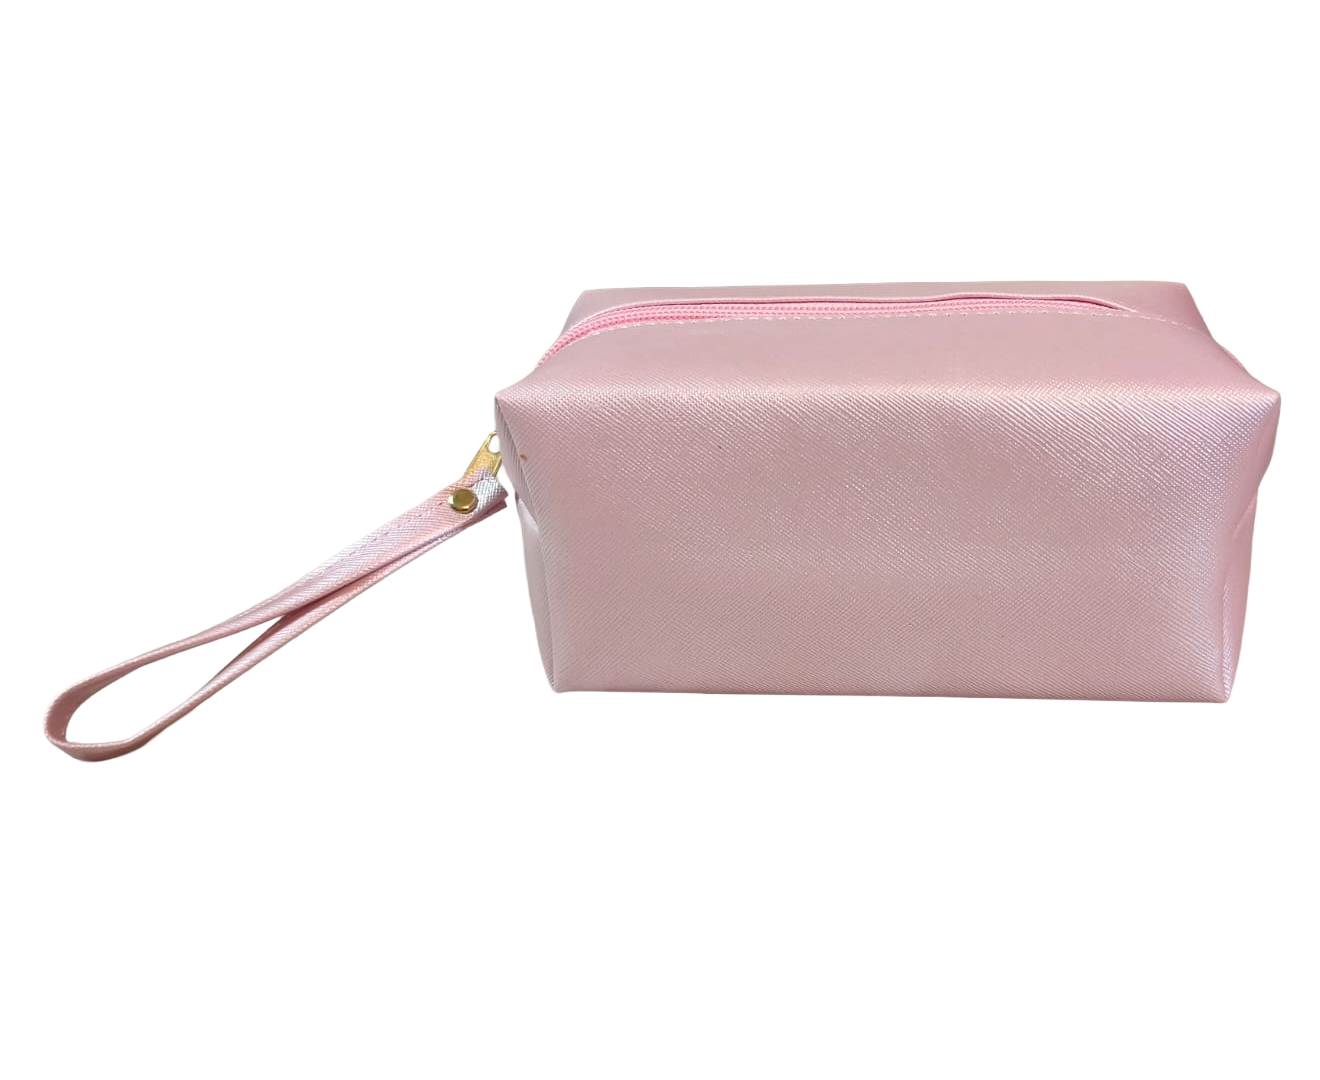
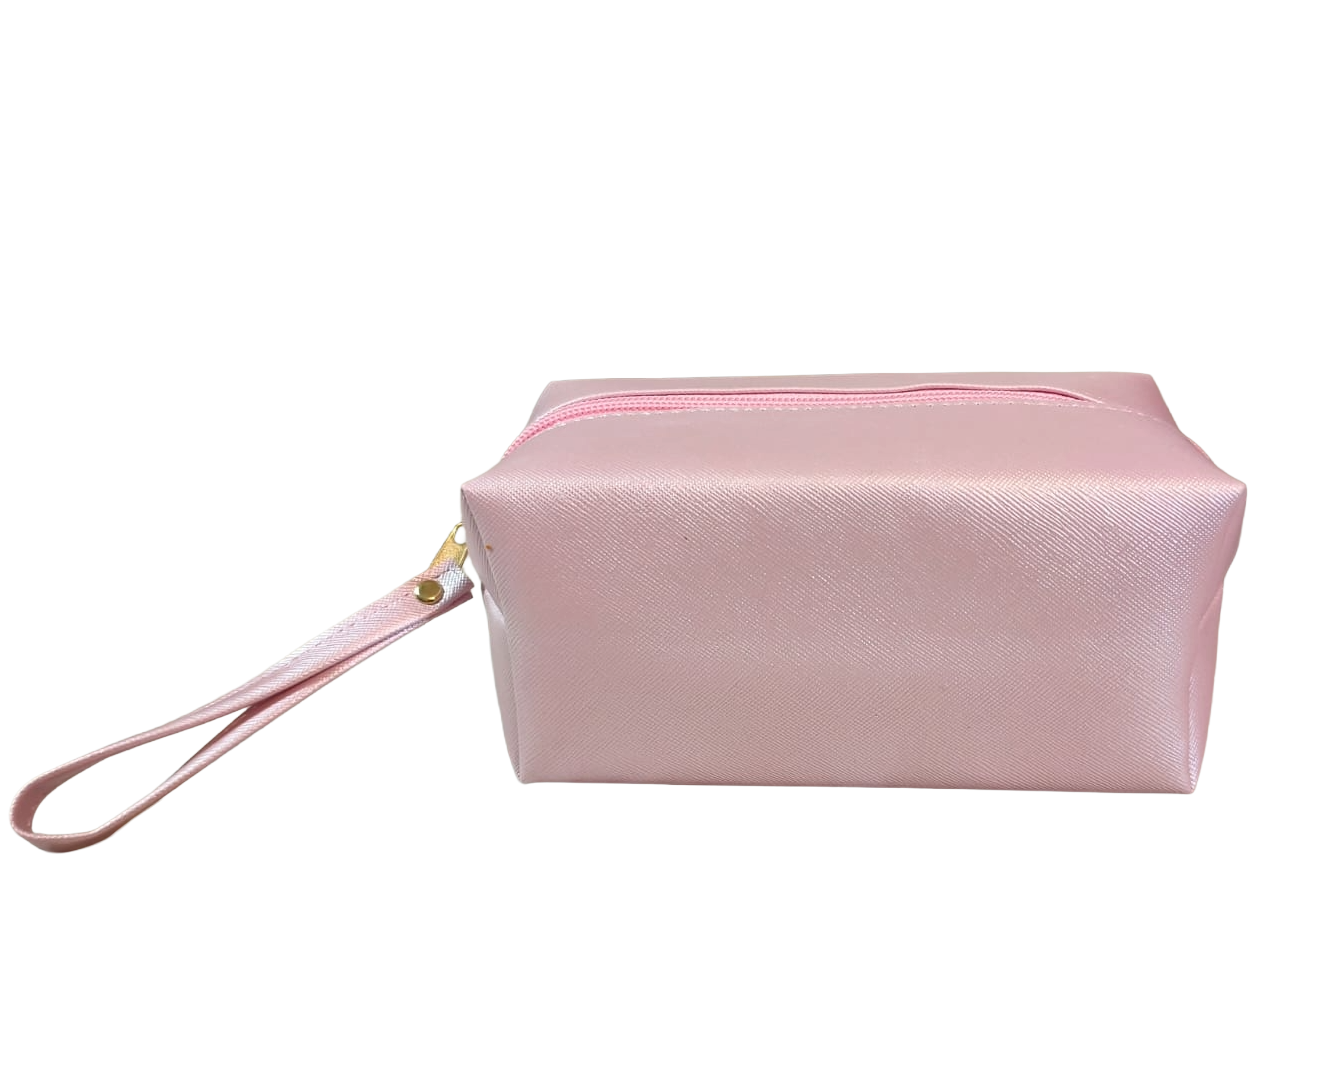
galeria y bugsd

Changed region(s): [[0.0, 0.2444, 0.9939, 0.7944], [0.0932, 0.7333, 0.1242, 0.7639]]

diff --git a/src/components/ProductsSection.tsx b/src/components/ProductsSection.tsx
@@ -4,13 +4,47 @@ import barcoDoradoFrente from "../assets/barco_dorada_frente.png";
 import barcoDoradoLateral from "../assets/barco-dorado-lateral.png";
 import barcoDoradoSuperior from "../assets/barco-dorada-superior.png";
 
+import barcoRosaPinkFrente from "../assets/barco-rosa-pink-frente.png";
+import barcoRosaPinkLateral from "../assets/barco-rosa-pink-lateral.png";
+import barcoRosaPinkSuperior from "../assets/barco-rosa-pink-superior.png";
+
+import barcoVerdeMentaeFrente from "../assets/barco-verde-menta-frente.png";
+import barcoVerdeMentaLatera from "../assets/barco-verde-mente-lateral.png";
+import barcoVerdeMentaSuperior from "../assets/barco-verde-mente-superior.png";
+
+import barcoLilaOrquideaFrente from "../assets/barco-lila-orquidea-frente.png";
+import barcoLilaOrquideaLateral from "../assets/barco-laila-orquide-lateral.png";
+import barcoLilaOrquideaSuperior from "../assets/barco-lila-orquidea-superior.png";
+
 import redondaLilaOrquidia from "../assets/lila-orquidia.png";
 import redondaLilaOrquidiaLateral from "../assets/lila-orquidia-lateral.png";
 import redondaLilaOrquidiaSuperior from "../assets/lila-orquidia-superior.png";
 
+import redondaVerdeManzanaFrente from "../assets/redonda-verde-manzana-frente.png";
+import redondaVerdeManzanaLateral from "../assets/redonda-verde-manzana-lateral.png";
+import redondaVerdeManzanaSuperior from "../assets/redonda-verde-manzana-superior.png";
+
+import redondaAmarillaFrente from "../assets/redonda-amarilla-frente.png";
+import redondaAmarillaLateral from "../assets/redonda-amarilla-lateral.png";
+
 import cuadradaRosaFrente from "../assets/cuadrada-rosa-aperlado.png";
 import cuadradaRosaLateral from "../assets/cuadrada-rosa-lateral.png";
 import cuadradaRosaSuperior from "../assets/cuadrada-rosa-superior.png";
+
+import cuadradaGrisFrente from "../assets/cuadrada-gris-frente.png";
+import cuadradaGrisLateral from "../assets/cuadrada-gris-lateral.png";
+import cuadradaGrisSuperior from "../assets/cuadrada-gris-superior.png";
+
+import cuadradaPerlaFrente from "../assets/cuadrada-perla-frente.png";
+import cuadradaPerlaLateral from "../assets/cuadrada-perla-lateral.png";
+import cuadradaPerlaSuperior from "../assets/cuadrada-perla-superior.png";
+
+import cuadradaRojaFrente from "../assets/cuadrada-roja-frente.png";
+import cuadradaRojaLateral from "../assets/cuadrada-roja-lateral.png";
+import cuadradaRojaSuperior from "../assets/cuadrada-roja-superior.png";
+
+import personalizada1 from "../assets/personalizadas1.png";
+import personalizada2 from "../assets/pesonalizadas2.png";
 
 type ColorOption = {
   name: string;
@@ -30,9 +64,10 @@ const products: {
     dims: "17 cm de largo × 9 cm de ancho x 8 cm de alto",
     desc: "Diseño compacto ideal para el día a día.",
     colors: [
-      { name: "Rosa", hex: "#E8B4B8", gallery: [cuadradaRosaFrente, cuadradaRosaLateral, cuadradaRosaSuperior] },
-      { name: "Beige", hex: "#D7C4A3", gallery: [redondaLilaOrquidia, redondaLilaOrquidiaLateral, cuadradaRosaSuperior] },
-      { name: "Nude", hex: "#E5C9B5", gallery: [cuadradaRosaFrente, cuadradaRosaLateral, cuadradaRosaSuperior] },
+      { name: "Rosa Perla", hex: "#E8B4B8", gallery: [cuadradaRosaFrente, cuadradaRosaLateral, cuadradaRosaSuperior] },
+      { name: "Gris", hex: "#c0b9b1", gallery: [cuadradaGrisFrente, cuadradaGrisLateral, cuadradaGrisSuperior] },
+      { name: "Perla", hex: "#dad2c7", gallery: [cuadradaPerlaFrente, cuadradaPerlaLateral, cuadradaPerlaSuperior] },
+      { name: "Roja", hex: "#bd071d", gallery: [cuadradaRojaFrente, cuadradaRojaLateral, cuadradaRojaSuperior] },
     ],
   },
   {
@@ -41,8 +76,9 @@ const products: {
     desc: "Amplio espacio ideal para viajes.",
     colors: [
       { name: "Oro rosado", hex: "#cda88e", gallery: [barcoDoradoFrente, barcoDoradoLateral, barcoDoradoSuperior] },
-      { name: "Rosa", hex: "#E8C5C1", gallery: [barcoDoradoFrente, barcoDoradoLateral, barcoDoradoSuperior] },
-      { name: "Arena", hex: "#C9B79C", gallery: [barcoDoradoFrente, barcoDoradoLateral, barcoDoradoSuperior] },
+      { name: "Rosa pink", hex: "#d37ba3", gallery: [barcoRosaPinkFrente, barcoRosaPinkLateral, barcoRosaPinkSuperior] },
+      { name: "Verde menta", hex: "#8cbba7", gallery: [barcoVerdeMentaeFrente, barcoVerdeMentaLatera, barcoVerdeMentaSuperior] },
+      { name: "Lila orquidea", hex: "#ab94e2", gallery: [barcoLilaOrquideaFrente, barcoLilaOrquideaLateral, barcoLilaOrquideaSuperior] },
     ],
   },
   {
@@ -50,9 +86,9 @@ const products: {
     dims: "28 cm × 16 cm",
     desc: "Compartimentos internos y bolsillos con cierre. Organiza todo tu maquillaje.",
     colors: [
-      { name: "Champagne", hex: "#E6D5B8", gallery: [redondaLilaOrquidia, redondaLilaOrquidiaLateral, redondaLilaOrquidiaSuperior] },
-      { name: "Rosa", hex: "#E8B4B8", gallery: [redondaLilaOrquidia, redondaLilaOrquidiaLateral, redondaLilaOrquidiaSuperior] },
-      { name: "Cacao", hex: "#B89B7A", gallery: [redondaLilaOrquidia, redondaLilaOrquidiaLateral, redondaLilaOrquidiaSuperior] },
+      { name: "Lila orquidea", hex: "#ab94e2", gallery: [redondaLilaOrquidia, redondaLilaOrquidiaLateral, redondaLilaOrquidiaSuperior] },
+      { name: "Verde manzana", hex: "#8db62a", gallery: [redondaVerdeManzanaFrente, redondaVerdeManzanaLateral, redondaVerdeManzanaSuperior] },
+      { name: "Amarilla", hex: "#d6aa16", gallery: [redondaAmarillaFrente, redondaAmarillaLateral] },
     ],
   },
   {
@@ -60,7 +96,7 @@ const products: {
     dims: "28 cm × 16 cm",
     desc: "Compartimentos internos y bolsillos con cierre. Organiza todo tu maquillaje.",
 
-    colors: [{ name: "Multicolor", gradient: "linear-gradient(135deg, #E6D5B8, #f1c27d, #d89c8a, #cdb4db, #bde0fe, #f3e7e4)", gallery: [redondaLilaOrquidia, redondaLilaOrquidiaLateral, redondaLilaOrquidiaSuperior] }],
+    colors: [{ name: "Multicolor", gradient: "linear-gradient(135deg, #E6D5B8, #f1c27d, #d89c8a, #cdb4db, #bde0fe, #f3e7e4)", gallery: [personalizada2, personalizada1, personalizada2] }],
   },
 ];
 
@@ -178,11 +214,13 @@ const ProductsSection = () => {
                     <div className="absolute bottom-6 right-6 h-28 w-28 rounded-full bg-[radial-gradient(circle,_rgba(230,201,181,0.36)_0%,_rgba(230,201,181,0)_74%)]" />
                     <div className="product-frame relative aspect-square transition-transform duration-500 group-hover:scale-[1.02]">
                       <div className="product-frame__glow" />
-                      <img src={color.gallery[0]} alt={`${p.name} - ${color.name}`} loading="lazy" width={800} height={800} className="product-frame__image p-6" />
+                      <img onClick={() => openModal(i)} src={color.gallery[0]} alt={`${p.name} - ${color.name}`} loading="lazy" width={800} height={800} className="cursor-pointer product-frame__image p-6" />
                     </div>
                   </div>
                   <div className="space-y-3 p-6">
-                    <h3 className="font-display text-2xl font-semibold text-foreground">{p.name}</h3>
+                    <h3 onClick={() => openModal(i)} className=" cursor-pointer font-display text-2xl font-semibold text-foreground">
+                      {p.name}
+                    </h3>
                     <span className="inline-block rounded-full bg-rose-light px-3 py-1 text-xs font-semibold text-primary">{p.dims}</span>
                     <div className="flex items-center gap-2 pt-1">
                       {p.colors.map((c, idx) => (
@@ -197,7 +235,7 @@ const ProductsSection = () => {
                       ))}
                     </div>
                     <p className="text-sm leading-relaxed text-muted-foreground">{p.desc}</p>
-                    <button onClick={() => openModal(i)} className="flex items-center gap-2 pt-1 text-sm font-medium text-primary transition-colors hover:text-primary/80">
+                    <button onClick={() => openModal(i)} className="  flex items-center gap-2 pt-1 text-lg font-medium text-primary transition-colors hover:text-primary/80">
                       <Camera className="h-4 w-4" />
                       Ver más fotos
                     </button>
@@ -212,11 +250,11 @@ const ProductsSection = () => {
       {/* ── Modal — un solo backdrop, dos vistas ─────────────────────────── */}
       {modalOpen && product && (
         <div className="fixed inset-0 z-50 flex items-center justify-center bg-foreground/60 backdrop-blur-sm animate-in fade-in-0 duration-200" onClick={closeModal}>
-          <div className="relative w-[90vw] max-w-lg overflow-hidden rounded-3xl bg-card shadow-float animate-in zoom-in-95 duration-200" onClick={(e) => e.stopPropagation()}>
+          <div className="relative w-[90vw]  max-w-lg overflow-hidden rounded-3xl bg-card shadow-float animate-in zoom-in-95 duration-200" onClick={(e) => e.stopPropagation()}>
             {/* ── VISTA A: Cosmetiquera ─────────────────────────────────── */}
             {modalView === "product" && (
               <>
-                <button onClick={closeModal} className="absolute right-4 top-4 z-10 rounded-full bg-background/80 p-2 text-foreground transition-colors hover:bg-background">
+                <button onClick={closeModal} className="absolute top-4 right-4 z-50 w-10 h-10 flex items-center justify-center rounded-full bg-white/90 shadow-lg">
                   <X className="h-4 w-4" />
                 </button>
 
@@ -226,12 +264,21 @@ const ProductsSection = () => {
                     <div className="product-frame__glow" />
                     <img key={currentImage} src={currentImage} alt={`${product.name} - ${activeColor.name} - ángulo ${angleIndex + 1}`} className="product-frame__image p-6" width={800} height={800} />
                   </div>
-                  <button onClick={() => navigateAngle(-1)} className="absolute left-3 top-1/2 -translate-y-1/2 rounded-full bg-background/80 p-2 text-foreground transition-colors hover:bg-background">
-                    <ChevronLeft className="h-5 w-5" />
-                  </button>
-                  <button onClick={() => navigateAngle(1)} className="absolute right-3 top-1/2 -translate-y-1/2 rounded-full bg-background/80 p-2 text-foreground transition-colors hover:bg-background">
-                    <ChevronRight className="h-5 w-5" />
-                  </button>
+
+                  {/* LEFT AREA */}
+                  <div onClick={() => navigateAngle(-1)} className="absolute left-0 top-0 h-full w-24 z-20 flex items-center justify-center cursor-pointer">
+                    <button className="w-12 h-12 flex items-center justify-center rounded-full bg-white/70 backdrop-blur-md shadow-lg hover:bg-white transition pointer-events-none">
+                      <span className="text-2xl">‹</span>
+                    </button>
+                  </div>
+
+                  {/* RIGHT AREA */}
+                  <div onClick={() => navigateAngle(1)} className="absolute -right-8 top-0 h-full w-24 z-20 flex items-center justify-center cursor-pointer">
+                    <button className="w-12 h-12 flex items-center justify-center rounded-full bg-white/70 backdrop-blur-md shadow-lg hover:bg-white transition pointer-events-none">
+                      <span className="text-2xl">›</span>
+                    </button>
+                  </div>
+
                   <span className="absolute bottom-3 left-1/2 -translate-x-1/2 rounded-full bg-background/80 px-3 py-1 text-xs font-medium text-foreground">
                     {angleIndex + 1} / {activeColor.gallery.length}
                   </span>
@@ -258,7 +305,7 @@ const ProductsSection = () => {
                     <span className="text-sm font-medium text-foreground">{activeColor.name}</span>
                     <button
                       onClick={goToMaterials}
-                      className="ml-auto flex items-center gap-1.5 rounded-full border border-primary/30 bg-rose-light/60 px-3 py-1.5 text-xs font-semibold text-primary transition-all hover:bg-rose-light hover:border-primary/60"
+                      className="hidden ml-auto items-center gap-1.5 rounded-full border border-primary/30 bg-rose-light/60 px-3 py-1.5 text-xs font-semibold text-primary transition-all hover:bg-rose-light hover:border-primary/60"
                     >
                       <Palette className="h-3.5 w-3.5" />
                       Mostrar más materiales

diff --git a/src/components/HeroSection.tsx b/src/components/HeroSection.tsx
@@ -1,7 +1,7 @@
 import { MessageCircle } from "lucide-react";
 import { useEffect, useState } from "react";
-import product1 from "../assets/image1.png";
-import product2 from "../assets/image2.png";
+import product1 from "../assets/principal1.jpeg";
+import product2 from "../assets/principal2.jpeg";
 import product3 from "../assets/image3.png";
 
 const WHATSAPP_URL = "https://wa.me/521234567890?text=Hola%2C%20me%20interesan%20sus%20cosmetiqueras";
@@ -64,7 +64,7 @@ const HeroSection = () => {
                 }}
                 onClick={() => setCurrent(i)}
               >
-                <img src={img} alt={`Cosmetiquera modelo ${i + 1}`} width={400} height={400} className="w-100 h-80  md:w-80 md:h-64 object-center rounded-3xl shadow-float" />
+                <img src={img} alt={`Cosmetiquera modelo ${i + 1}`} width={400} height={400} className="w-100 h-80 md:w-80 md:h-64 object-center rounded-3xl shadow-float" />
               </div>
             );
           })}

diff --git a/src/components/AboutSection.tsx b/src/components/AboutSection.tsx
@@ -1,4 +1,4 @@
-import aboutImg from "../assets/image1.png";
+import aboutImg from "../assets/about1.jpeg";
 
 const AboutSection = () => {
   return (
@@ -18,7 +18,7 @@ const AboutSection = () => {
               acabado premium.
             </p>
             <p className="text-muted-foreground leading-relaxed">
-              Trabajamos directamente con mayoristas, revendedores y emprendedoras que buscan productos confiables para hacer crecer su negocio. Envíos a todo México con entregas a domicilio.
+              Trabajamos directamente con mayoristas, revendedores, emprendedoras y eventos que buscan productos confiables. Envíos a todo México con entregas a domicilio.
             </p>
           </div>
         </div>

diff --git a/src/components/CatalogSection.tsx b/src/components/CatalogSection.tsx
@@ -1,6 +1,6 @@
 export default function CatalogSection() {
   return (
-    <section className="w-full flex justify-center py-16 bg-[#f8f5f2]">
+    <section className="w-full flex justify-center py-6 bg-[#f8f5f2]">
       <div className="w-full max-w-5xl px-6">
         <div className="bg-gradient-to-br from-[#f3e7e4] to-[#f8f5f2] rounded-3xl p-10 text-center shadow-sm border border-[#eaded9]">
           {/* Título */}

diff --git a/src/components/FeaturesSection.tsx b/src/components/FeaturesSection.tsx
@@ -4,7 +4,6 @@ const features = [
   { icon: Sparkles, title: "Atención al detalle", desc: "Cada pieza es revisada para asegurar la máxima calidad." },
   { icon: Shield, title: "Materiales de alta calidad", desc: "Materiales resistentes cierres y herrajes duraderos en cada cosmetiquera." },
   { icon: Scissors, title: "Costuras reforzadas", desc: "Fabricadas con hilo sintético resistente que no se deshilacha y garantiza mayor durabilidad." },
-  { icon: Palette, title: "Colores tendencia", desc: "Paleta de colores muy variada." },
   { icon: Palette, title: "Variedad de colores", desc: "Disponibles en múltiples colores para adaptarse a tu evento, marca o negocio." },
 ];
 